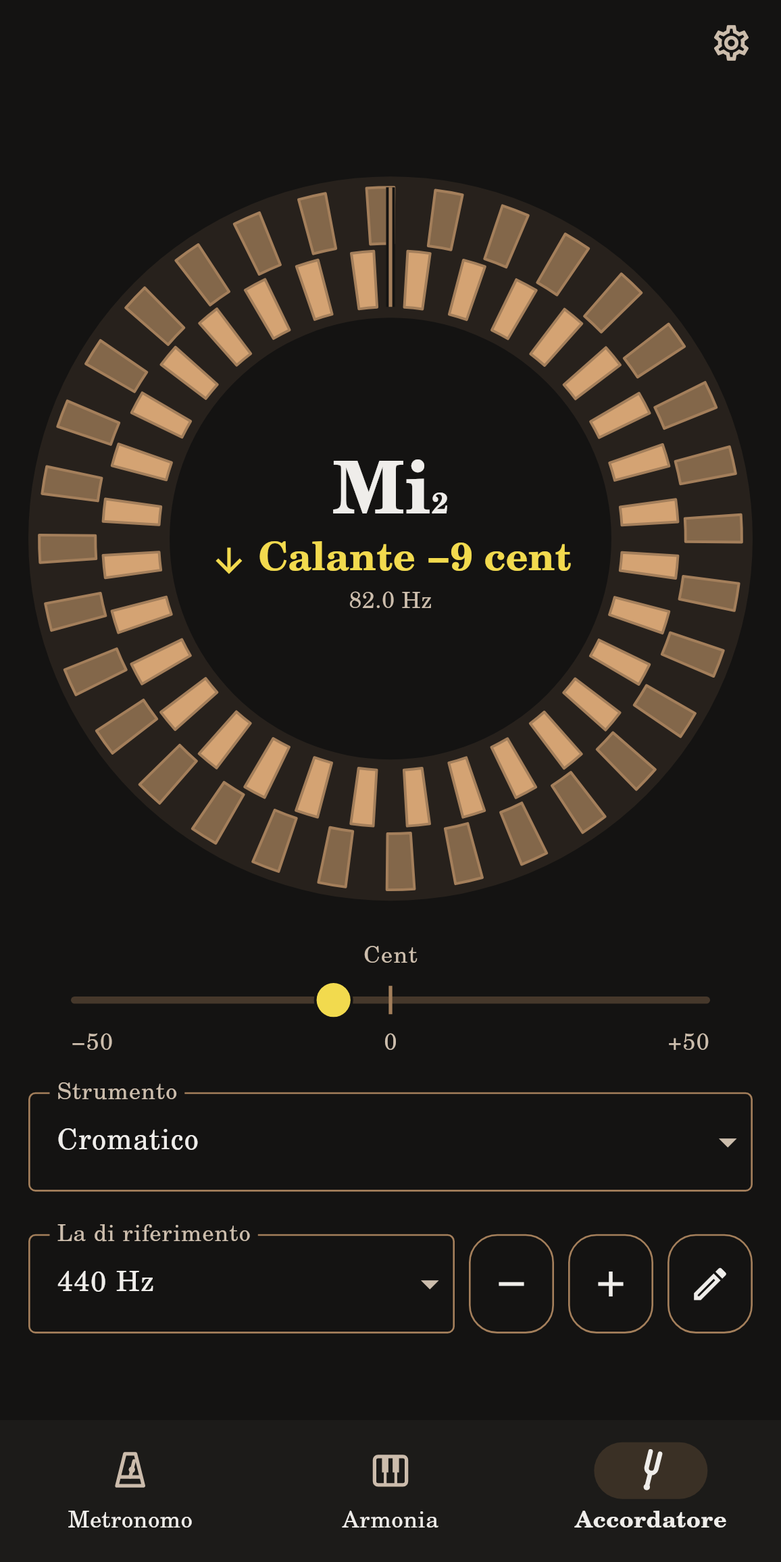
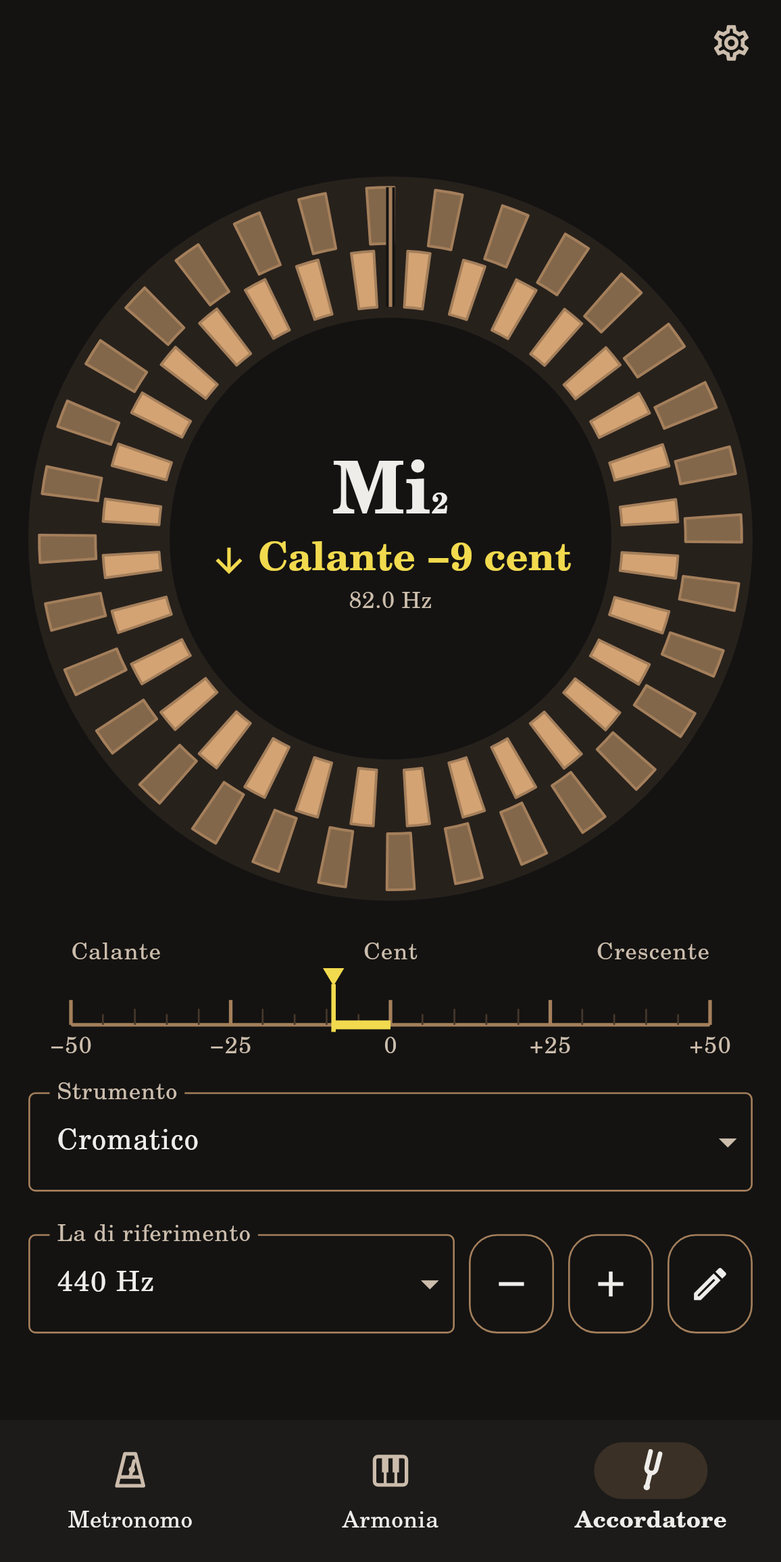
Tuner: cents scale on an axis, teal in tune, double arrow far off
The cents bar becomes a scale: a horizontal axis with a tick every 5
cents, a needle, and the axis coloured from 0 to the needle, so the
length says how far off the note is without relying on colour. No zone
is marked round 0.

For colour-blind players: the in-tune green leans to teal (#5FD7C8),
which protanopes and deuteranopes see as a pale grey instead of a beige
next to the bronze and the yellow; far off (beyond 15 cents) shows two
arrows instead of one.

Claude-Session: https://claude.ai/code/session_01H8DRT6z8i8fiLdC4eMBn9i

Changed region(s): [[0.0934, 0.5917, 0.9343, 0.6851]]

diff --git a/lib/features/tuner/tuner_panel.dart b/lib/features/tuner/tuner_panel.dart
@@ -241,6 +241,19 @@ class _InstrumentField extends StatelessWidget {
   }
 }
 
+/// The shape that goes with the verdict's colour: a tick in tune, an arrow
+/// up or down when close, two arrows when far off (the same limits as
+/// [_centsColor]), so that close and far differ by more than their colour.
+IconData verdictIcon(double cents, double tolerance) {
+  final off = cents.abs();
+  if (off <= tolerance) return Icons.check_circle;
+  final far = off > math.max(15, tolerance);
+  if (cents < 0) {
+    return far ? Icons.keyboard_double_arrow_down : Icons.arrow_downward;
+  }
+  return far ? Icons.keyboard_double_arrow_up : Icons.arrow_upward;
+}
+
 /// Green when in tune, ochre when close, red when far off: the shades live
 /// in lib/app/theme.dart and keep at least 3:1 contrast (WCAG 1.4.3, 1.4.11).
 Color _centsColor(ThemeData theme, double cents, double tolerance) {
@@ -634,7 +647,7 @@ class _NoteDisplay extends StatelessWidget {
           opacity: held ? 0.55 : 1,
           child: fit([
             // The note in the ink of the text; the verdict alone, under it,
-            // turns green, orange or red.
+            // turns teal green, yellow or red.
             _NoteName(
               note: target,
               names: names,
@@ -645,11 +658,10 @@ class _NoteDisplay extends StatelessWidget {
             Row(
               mainAxisSize: MainAxisSize.min,
               children: [
-                // A shape as well as a colour, for colour-blind players.
+                // A shape as well as a colour, for colour-blind players: a
+                // tick in tune, one arrow close, two arrows far off.
                 Icon(
-                  r.inTune
-                      ? Icons.check_circle
-                      : (cents < 0 ? Icons.arrow_downward : Icons.arrow_upward),
+                  verdictIcon(r.cents, tolerance),
                   color: color,
                   size: LowEndType.headline,
                 ),
@@ -731,13 +743,14 @@ class _NoteName extends StatelessWidget {
   }
 }
 
-/// The cents, 50 flat to 50 sharp, in the first row under the dial, drawn
-/// with a thin track as wide as the rows above
-/// it: the same thin track, the same short mark in the middle and the same
-/// round thumb. The thumb says how far off the note is, by its place, its
-/// size and the verdict's colour; no shaded zone, which looked like
-/// something to drag. The strobe shows the same thing by turning,
-/// which is hard to read at a glance, and this by position, which is not.
+/// The cents, 50 flat to 50 sharp, in the first row under the dial: a scale
+/// on a horizontal axis, with a tick every 5 cents, and a needle at the
+/// note. The axis takes the verdict's colour from 0 to the needle, so the
+/// length of that stretch says how far off the note is even to a player who
+/// cannot tell the colours apart. No zone is marked round 0: the needle's
+/// colour and the verdict in the dial say when the note is in tune. The
+/// strobe shows the same thing by turning, which is hard to read at a
+/// glance, and this by position, which is not.
 class _CentsBar extends StatelessWidget {
   const _CentsBar({
     required this.reading,
@@ -751,13 +764,17 @@ class _CentsBar extends StatelessWidget {
   final double tolerance;
   final bool listening;
 
-  /// The room left at each side so that the thumb at the ends stays inside
-  /// the width of the rows above it, as a slider leaves for its thumb.
+  /// The room left at each side, so that the numbers under the ends of the
+  /// scale stay inside the width of the rows below it.
   static const _inset = 24.0;
+
+  /// The numbers written under the scale.
+  static const _numbers = [-50, -25, 0, 25, 50];
 
   @override
   Widget build(BuildContext context) {
     final theme = Theme.of(context);
+    final l10n = AppLocalizations.of(context);
     final r = reading;
     final show = listening && r != null;
     final label = theme.textTheme.labelMedium?.copyWith(
@@ -770,36 +787,63 @@ class _CentsBar extends StatelessWidget {
         child: Column(
           mainAxisSize: MainAxisSize.min,
           children: [
-            // A word over the track.
-            Text(AppLocalizations.of(context).centsTitle, style: label),
+            // Over the scale: which side is flat, which sharp, and what it
+            // counts.
+            Row(
+              children: [
+                Expanded(child: Text(l10n.flat, style: label)),
+                Text(l10n.centsTitle, style: label),
+                Expanded(
+                  child: Text(
+                    l10n.sharp,
+                    style: label,
+                    textAlign: TextAlign.end,
+                  ),
+                ),
+              ],
+            ),
             SizedBox(
-              height: 32,
+              height: 36,
               width: double.infinity,
               child: CustomPaint(
-                painter: _CentsBarPainter(
+                painter: _CentsScalePainter(
                   cents: show ? r.cents : null,
                   // The verdict's colour: green in tune, yellow close, red
-                  // far off; grey while the note is only held.
-                  marker: show && !held
+                  // far off; the colour of the borders while the note is
+                  // only held.
+                  needle: show && !held
                       ? _centsColor(theme, r.cents, tolerance)
                       : theme.colorScheme.outline,
-                  tolerance: tolerance,
-                  track: theme.colorScheme.outlineVariant,
-                  middle: theme.colorScheme.outline,
-                  hub: theme.colorScheme.surface,
+                  axis: theme.colorScheme.outline,
+                  minorTick: theme.colorScheme.outlineVariant,
                 ),
               ),
             ),
-            // The scale under the track, so that the thumb's place reads as
-            // cents: its ends and its middle.
-            Row(
-              children: [
-                Expanded(child: Text('−50', style: label)),
-                Text('0', style: label),
-                Expanded(
-                  child: Text('+50', style: label, textAlign: TextAlign.end),
+            // The numbers, each centred under its tick.
+            LayoutBuilder(
+              builder: (context, box) => SizedBox(
+                width: box.maxWidth,
+                child: Stack(
+                  clipBehavior: Clip.none,
+                  children: [
+                    // Holds the height of a line of numbers.
+                    Opacity(opacity: 0, child: Text('0', style: label)),
+                    for (final n in _numbers)
+                      Positioned(
+                        left: centsOnScale(n.toDouble()) * box.maxWidth,
+                        child: FractionalTranslation(
+                          translation: const Offset(-0.5, 0),
+                          child: Text(
+                            // A real minus sign: the hyphen is too short next
+                            // to the plus.
+                            n > 0 ? '+$n' : (n < 0 ? '−${-n}' : '0'),
+                            style: label,
+                          ),
+                        ),
+                      ),
+                  ],
                 ),
-              ],
+              ),
             ),
           ],
         ),
@@ -808,68 +852,74 @@ class _CentsBar extends StatelessWidget {
   }
 }
 
-/// The radius of the cents bar's thumb: 10 dp within [tolerance] of the
-/// note, down to 5 dp at 50 cents off.
-double centsThumbRadius(double cents, double tolerance) {
-  final off = cents.abs() - tolerance;
-  if (off <= 0) return 10;
-  return 10 - 5 * (off / math.max(1, 50 - tolerance)).clamp(0.0, 1.0);
-}
+/// Where [cents] fall on the scale, from 0 (50 flat) to 1 (50 sharp); a
+/// note further off stays at the end.
+double centsOnScale(double cents) => (cents.clamp(-50, 50) + 50) / 100;
 
-class _CentsBarPainter extends CustomPainter {
-  _CentsBarPainter({
+class _CentsScalePainter extends CustomPainter {
+  _CentsScalePainter({
     required this.cents,
-    required this.marker,
-    required this.tolerance,
-    required this.track,
-    required this.middle,
-    required this.hub,
+    required this.needle,
+    required this.axis,
+    required this.minorTick,
   });
 
   final double? cents;
-  final Color marker;
-  final double tolerance;
-  final Color track;
-  final Color middle;
-  final Color hub;
+  final Color needle;
+  final Color axis;
+  final Color minorTick;
 
   @override
   void paint(Canvas canvas, Size size) {
-    final mid = size.height / 2;
-    double x(double c) => (c.clamp(-50, 50) + 50) / 100 * size.width;
-    // The track of a slider: 4 dp, with round ends.
+    // The axis runs along the bottom; the ticks stand on it and the
+    // needle's head sits over them.
+    final y = size.height - 4;
+    double x(double c) => centsOnScale(c) * size.width;
     canvas.drawRRect(
-      RRect.fromLTRBR(
-        0,
-        mid - 2,
-        size.width,
-        mid + 2,
-        const Radius.circular(2),
-      ),
-      Paint()..color = track,
+      RRect.fromLTRBR(0, y - 1, size.width, y + 1, const Radius.circular(1)),
+      Paint()..color = axis,
     );
-    // The middle: 2 by 16 dp.
-    canvas.drawRect(
-      Rect.fromCenter(center: Offset(x(0), mid), width: 2, height: 16),
-      Paint()..color = middle,
-    );
+    // A tick every 5 cents: tall and thicker at 0, ±25 and ±50, middle at
+    // every 10, short in between.
+    for (var c = -50; c <= 50; c += 5) {
+      final major = c % 25 == 0;
+      final height = major ? 14.0 : (c % 10 == 0 ? 9.0 : 6.0);
+      final width = major ? 2.0 : 1.0;
+      canvas.drawRect(
+        Rect.fromLTRB(
+          x(c.toDouble()) - width / 2,
+          y - height,
+          x(c.toDouble()) + width / 2,
+          y,
+        ),
+        Paint()..color = major ? axis : minorTick,
+      );
+    }
     final c = cents;
     if (c == null) return;
-    // A round thumb, with a thin halo against the track and the mark: as big
-    // as a slider's when in tune, smaller the further off the note is, so
-    // that it reads as a reading, not as something to drag.
-    final at = Offset(x(c), mid);
-    final r = centsThumbRadius(c, tolerance);
-    canvas.drawCircle(at, r + 1.5, Paint()..color = hub);
-    canvas.drawCircle(at, r, Paint()..color = marker);
+    final paint = Paint()..color = needle;
+    // The axis in the needle's colour from 0 to the needle, however short.
+    final from = math.min(x(0), x(c));
+    final to = math.max(x(0), x(c));
+    canvas.drawRect(Rect.fromLTRB(from, y - 2.5, to, y + 2.5), paint);
+    // The needle: a line from over the ticks to under the axis, with a
+    // head pointing down at the scale.
+    final at = x(c);
+    canvas.drawRect(Rect.fromLTRB(at - 1.25, 9, at + 1.25, y + 4), paint);
+    canvas.drawPath(
+      Path()
+        ..moveTo(at - 6, 0)
+        ..lineTo(at + 6, 0)
+        ..lineTo(at, 10)
+        ..close(),
+      paint,
+    );
   }
 
   @override
-  bool shouldRepaint(_CentsBarPainter old) =>
+  bool shouldRepaint(_CentsScalePainter old) =>
       old.cents != cents ||
-      old.marker != marker ||
-      old.tolerance != tolerance ||
-      old.track != track ||
-      old.middle != middle ||
-      old.hub != hub;
+      old.needle != needle ||
+      old.axis != axis ||
+      old.minorTick != minorTick;
 }

diff --git a/test/tuner_transposition_test.dart b/test/tuner_transposition_test.dart
@@ -1,7 +1,7 @@
 import 'dart:math' as math;
 import 'dart:typed_data';
 
-import 'package:flutter/widgets.dart';
+import 'package:flutter/material.dart';
 import 'package:flutter_test/flutter_test.dart';
 import 'package:low_end/actions/app_actions.dart';
 import 'package:low_end/app/app_navigation.dart';
@@ -109,13 +109,24 @@ void main() {
     }
   });
 
-  test('the cents thumb shrinks the further off the note is', () {
-    expect(centsThumbRadius(0, 5), 10);
-    expect(centsThumbRadius(-5, 5), 10);
-    expect(centsThumbRadius(20, 5), lessThan(10));
-    expect(centsThumbRadius(20, 5), greaterThan(centsThumbRadius(40, 5)));
-    expect(centsThumbRadius(-50, 5), 5);
-    expect(centsThumbRadius(80, 5), 5);
+  test('the cents scale runs from 50 flat to 50 sharp, clamped', () {
+    expect(centsOnScale(-50), 0);
+    expect(centsOnScale(0), 0.5);
+    expect(centsOnScale(25), 0.75);
+    expect(centsOnScale(-80), 0);
+    expect(centsOnScale(80), 1);
+  });
+
+  test('close and far off differ by their arrows, not only by colour', () {
+    expect(verdictIcon(2, 5), Icons.check_circle);
+    expect(verdictIcon(-5, 5), Icons.check_circle);
+    expect(verdictIcon(-9, 5), Icons.arrow_downward);
+    expect(verdictIcon(12, 5), Icons.arrow_upward);
+    expect(verdictIcon(-32, 5), Icons.keyboard_double_arrow_down);
+    expect(verdictIcon(32, 5), Icons.keyboard_double_arrow_up);
+    // A wide in-tune zone moves the limit of "close" with it.
+    expect(verdictIcon(-8, 10), Icons.check_circle);
+    expect(verdictIcon(15, 10), Icons.arrow_upward);
   });
 
   testWidgets('a B♭ instrument sees its written note', (tester) async {

diff --git a/lib/app/theme.dart b/lib/app/theme.dart
@@ -26,8 +26,11 @@ abstract final class Palette {
   static const inkOnDarkMuted = Color(0xFFC9C5BF);
 
   // Tuner verdicts: green, amber and a pure red, told apart from the bronze
-  // by their hue, so a verdict never reads as the app's own colour.
-  static const inTune = Color(0xFF8FD19E);
+  // by their hue, so a verdict never reads as the app's own colour. The
+  // green leans to teal: a player who cannot tell red from green
+  // (protanopia, deuteranopia) sees it as a pale grey, not as a beige
+  // next to the bronze and the yellow.
+  static const inTune = Color(0xFF5FD7C8);
   static const close = Color(0xFFF2DA4E);
   static const off = Color(0xFFFF5F56);
 }

diff --git a/docs/style.md b/docs/style.md
@@ -33,7 +33,7 @@ Rules: pick a role, never a number; the three dials show their value in `display
 | --- | --- |
 | Corner radius of buttons, cards, menus | 16 (`LowEndShape.radius`) |
 | Round or rounded control | at least 48 × 48, the smallest touch target |
-| Rows under a dial | three rows of the same height (`DialLayout.rowHeight`, 80, spacing included) and no space between them, on every tab: a dial and three rows. Second row: one or two `LabeledField`s, as tall as the field under them: the metronome's Time signature and Subdivision, the harmony's Mode, the tuner's Instrument. Third row: the row of controls. First row: empty on the metronome and the harmony (the same height, so that their rows sit where the tuner's do); on the tuner a cents bar (thin track, 2 by 16 middle mark, round thumb, no shaded zone, with the word "Cents" over it and −50, 0, +50 written under it; the thumb takes the verdict's colour and shrinks from 10 to 5 dp the further off the note is, grey while a note is only held). The row of controls is the field, buttons and icon button of `row_controls.dart`, with one gap between them (`rowGap`, 8), all as tall as a line of text with the same padding (so they grow together with large text): TAP, −, +, pencil on the metronome; chord / progression, options on the harmony; reference A, −, +, pencil on the tuner |
+| Rows under a dial | three rows of the same height (`DialLayout.rowHeight`, 80, spacing included) and no space between them, on every tab: a dial and three rows. Second row: one or two `LabeledField`s, as tall as the field under them: the metronome's Time signature and Subdivision, the harmony's Mode, the tuner's Instrument. Third row: the row of controls. First row: empty on the metronome and the harmony (the same height, so that their rows sit where the tuner's do); on the tuner a cents scale (a horizontal axis with a tick every 5 cents, taller at 0, ±25 and ±50, and a needle with its head over the ticks; "Flat", "Cents" and "Sharp" over it and −50, −25, 0, +25, +50 under it; the needle and the stretch of axis from 0 to it take the verdict's colour, however short, so the length says how far off the note is; no zone is marked round 0; the needle is in `outline` while a note is only held). The row of controls is the field, buttons and icon button of `row_controls.dart`, with one gap between them (`rowGap`, 8), all as tall as a line of text with the same padding (so they grow together with large text): TAP, −, +, pencil on the metronome; chord / progression, options on the harmony; reference A, −, +, pencil on the tuner |
 | Dial and rows | the dial at the same height on every tab; the controls sit lower, nearer the thumb, with only a little room left under them for a row that grows (`DialLayout`) |
 | Dial | one disc, a ring from 0.64 to 0.97 of the radius, a hub of 0.61; the same position and size on every tab (`DialGeometry`, `dial_alignment_test.dart`) |
 | Ring segments | metronome: thinner band (0.22 to 0.92 of the ring), one segment per beat, the lit "one" wider (0.12 to 1), a bar of one beat is a whole ring; harmony: the whole ring, twelve keys; tuner: two bands of thin segments |
@@ -50,7 +50,7 @@ Bronze on ebony (full notes in [tema-bronzo.md](tema-bronzo.md)): always dark, n
 | The metronome's "one" | the accent at full strength, and wider than the other beats (it fills the ring's margins), so it is told by its shape too |
 | Choices of a segmented button (the transposition in the settings) | the chosen one filled, in ink; the others in the muted ink, never in the accent |
 | Icons and text on the row of controls | the ink of the text, with a border in `outline` (dimmed with the button at the end of a range); every outlined button of the app takes this from `outlinedButtonTheme` |
-| Tuner verdict | in tune green, close yellow, off pure red (`inTune`, `close`, `off`), on the verdict words and their tick or arrow, and on the thumb of the cents bar (the note itself is in ink, like the middle of every dial), always with a shape (a tick or an arrow) as well. They are never the bronze: the yellow is at least 20 degrees of hue away from it |
+| Tuner verdict | in tune teal green, close yellow, off pure red (`inTune`, `close`, `off`), on the verdict words and their tick or arrows, and on the needle of the cents scale and its stretch of axis (the note itself is in ink, like the middle of every dial), always with a shape as well: a tick in tune, one arrow close, two arrows far off. The green leans to teal so that protanopes and deuteranopes see it as a pale grey, not as a beige next to the bronze and the yellow. They are never the bronze: the yellow is at least 20 degrees of hue away from it |
 | The functions of a progression (harmony) | its Roman numerals (I, II, V) written small on the notes they stand on, and still while it plays; nothing moves to say what is next |
 
 All text and shapes keep at least 4.5:1 / 3:1 contrast (`theme_test.dart`, `accessibility_test.dart`).

diff --git a/docs/manuale-utente.md b/docs/manuale-utente.md
@@ -41,7 +41,7 @@ Dodici tasti intorno a un cerchio (di norma nel cerchio delle quinte; nelle impo
 
 ## Accordatore
 
-- L'accordatore ascolta da solo quando apri la sezione, se nient'altro sta suonando (la prima volta Android chiede il permesso per il **microfono**). Suona una nota: il suo nome compare al centro dello strobo rotondo. Gli anelli dello strobo girano in senso antiorario se la nota è **calante** e orario se è **crescente**, più veloci quanto più sei lontano, e restano fermi quando sei **intonato** (entro 5 cent; le impostazioni offrono 2 o 10). Sotto il cerchio, nella prima riga, una barra mostra la stessa cosa con la posizione: un indicatore tondo si muove lungo una linea sottile con un segno al centro; è grande e verde quando sei intonato, e più piccolo, giallo e poi rosso, quanto più sei lontano, e una nota solo trattenuta dopo che la corda si è fermata si attenua. Sono scritte anche le parole *Calante*, *Intonato* e *Crescente* e il numero di cent, e un lettore di schermo le legge ad alta voce.
+- L'accordatore ascolta da solo quando apri la sezione, se nient'altro sta suonando (la prima volta Android chiede il permesso per il **microfono**). Suona una nota: il suo nome compare al centro dello strobo rotondo. Gli anelli dello strobo girano in senso antiorario se la nota è **calante** e orario se è **crescente**, più veloci quanto più sei lontano, e restano fermi quando sei **intonato** (entro 5 cent; le impostazioni offrono 2 o 10). Sotto il cerchio, nella prima riga, una scala mostra la stessa cosa con la posizione: una lancetta si muove lungo un asse segnato ogni 5 cent, e l'asse si colora da 0 alla lancetta, così più lungo è il tratto più sei lontano; è verde quando sei intonato, giallo e poi rosso quanto più sei lontano, e una nota solo trattenuta dopo che la corda si è fermata si attenua. Sono scritte anche le parole *Calante*, *Intonato* e *Crescente* e il numero di cent, con una spunta se sei intonato, una freccia se sei vicino e due se sei lontano, e un lettore di schermo le legge ad alta voce.
 - **Ascolta / Pausa**: tocca il centro del cerchio per avviarlo o metterlo in pausa quando vuoi; resta in pausa finché non lo tocchi di nuovo.
 - **Se metronomo o armonia stanno suonando**, entrare nell'accordatore non ferma nulla: il cerchio dice *Ascolta* e *Ascoltare mette in pausa ciò che suona*. Tocca il cerchio e vanno in pausa, così il microfono sente solo il tuo strumento, con un avviso *In pausa mentre accordi* e un pulsante **Riprendi** che li fa ripartire. Uscendo dall'accordatore non riprende nulla da solo.
 - Il La di riferimento è nella terza riga: **−** e **+** si muovono di 1 Hz, la matita permette di scrivere il valore o scegliere uno di quelli standard (415, 432, 440, 442 Hz).

diff --git a/docs/user-guide.md b/docs/user-guide.md
@@ -41,7 +41,7 @@ Twelve keys round a dial (by default in the circle of fifths; you can ask for se
 
 ## Tuner
 
-- The tuner listens by itself when you open the section, if nothing else is playing (the first time Android asks for the **microphone**). Play a note: its name appears in the middle of the round strobe. The rings of the strobe turn anticlockwise when the note is **flat** and clockwise when it is **sharp**, faster the further off you are, and stand still when you are **in tune** (within 5 cents by default; the settings offer 2 or 10). Under the dial, in the first row, a bar shows the same thing by position: a round marker moves along a thin track with a mark in the middle; it is big and green when in tune, and smaller, yellow then red, the further off you are, and a note that is only being held after the string stopped fades. The words *Flat*, *In tune* and *Sharp* and the number of cents are written too, and a screen reader reads them out.
+- The tuner listens by itself when you open the section, if nothing else is playing (the first time Android asks for the **microphone**). Play a note: its name appears in the middle of the round strobe. The rings of the strobe turn anticlockwise when the note is **flat** and clockwise when it is **sharp**, faster the further off you are, and stand still when you are **in tune** (within 5 cents by default; the settings offer 2 or 10). Under the dial, in the first row, a scale shows the same thing by position: a needle moves along an axis marked every 5 cents, and the axis is coloured from 0 to the needle, so the longer the stretch the further off you are; it is green when in tune, yellow then red the further off you are, and a note that is only being held after the string stopped fades. The words *Flat*, *In tune* and *Sharp* and the number of cents are written too, with a tick when in tune, one arrow when close and two when far off, and a screen reader reads them out.
 - **Listen / Pause**: touch the middle of the dial to start or pause it whenever you want; it stays paused until you touch it again.
 - **If the metronome or the harmony is playing**, coming to the tuner stops nothing: the dial says *Listen* and *Listening pauses what is playing*. Touch the dial and they pause, so the microphone hears only your instrument, with a notice *Paused while you tune* and a **Resume** button that starts them again. Nothing resumes by itself when you leave the tuner.
 - The reference A is in the third row: **−** and **+** move by 1 Hz, and the pencil takes a typed value or one of the standard ones (415, 432, 440, 442 Hz).

diff --git a/docs/tema-bronzo.md b/docs/tema-bronzo.md
@@ -27,7 +27,7 @@ La schermata di avvio di Android usa l'ebano (`android/app/src/main/res/values/c
 
 ## 4. Verdetti dell'accordatore
 
-Intonato verde #8FD19E, quasi giallo #F2DA4E, lontano rosso puro #FF5F56. Stanno solo sulla scritta del verdetto con la sua freccia o spunta e sull'indicatore tondo della barra dei cent; la nota resta bianca. Il giallo è lontano dal bronzo per tonalità (almeno 20 gradi, controllato da `test/theme_test.dart`), non solo per luminosità. Il verdetto è detto anche a parole e dal verso dello strobo: nessuna informazione affidata al solo colore.
+Intonato verde acqua #5FD7C8, quasi giallo #F2DA4E, lontano rosso puro #FF5F56. Il verde tende all'acqua perché chi non distingue rosso e verde (protanopia, deuteranopia) lo veda grigio chiaro e non beige come il bronzo e il giallo. Stanno solo sulla scritta del verdetto con la sua spunta o freccia (una freccia se vicino, due se lontano) e sulla lancetta della scala dei cent con il tratto d'asse da 0 alla lancetta; la nota resta bianca. Il giallo è lontano dal bronzo per tonalità (almeno 20 gradi, controllato da `test/theme_test.dart`), non solo per luminosità. Il verdetto è detto anche a parole e dal verso dello strobo: nessuna informazione affidata al solo colore.
 
 ## 5. Contrasto (WCAG)
 
